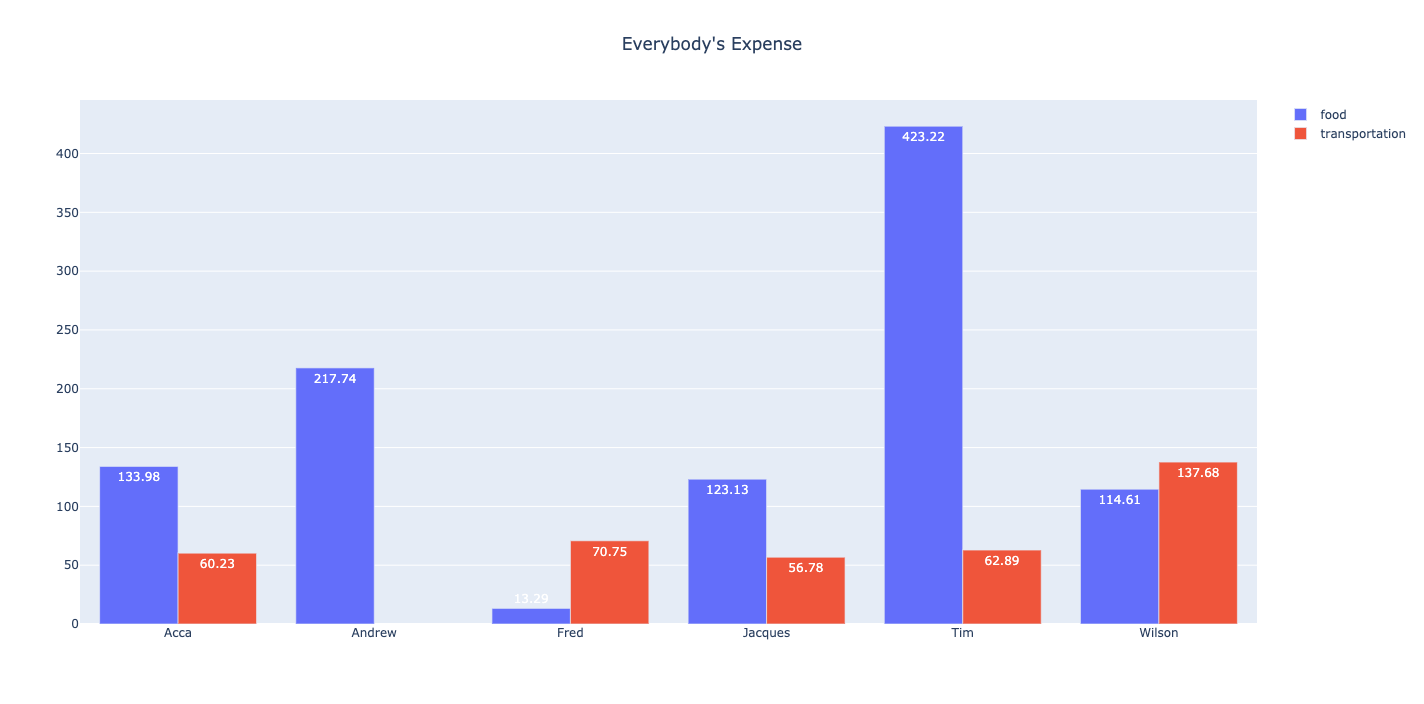
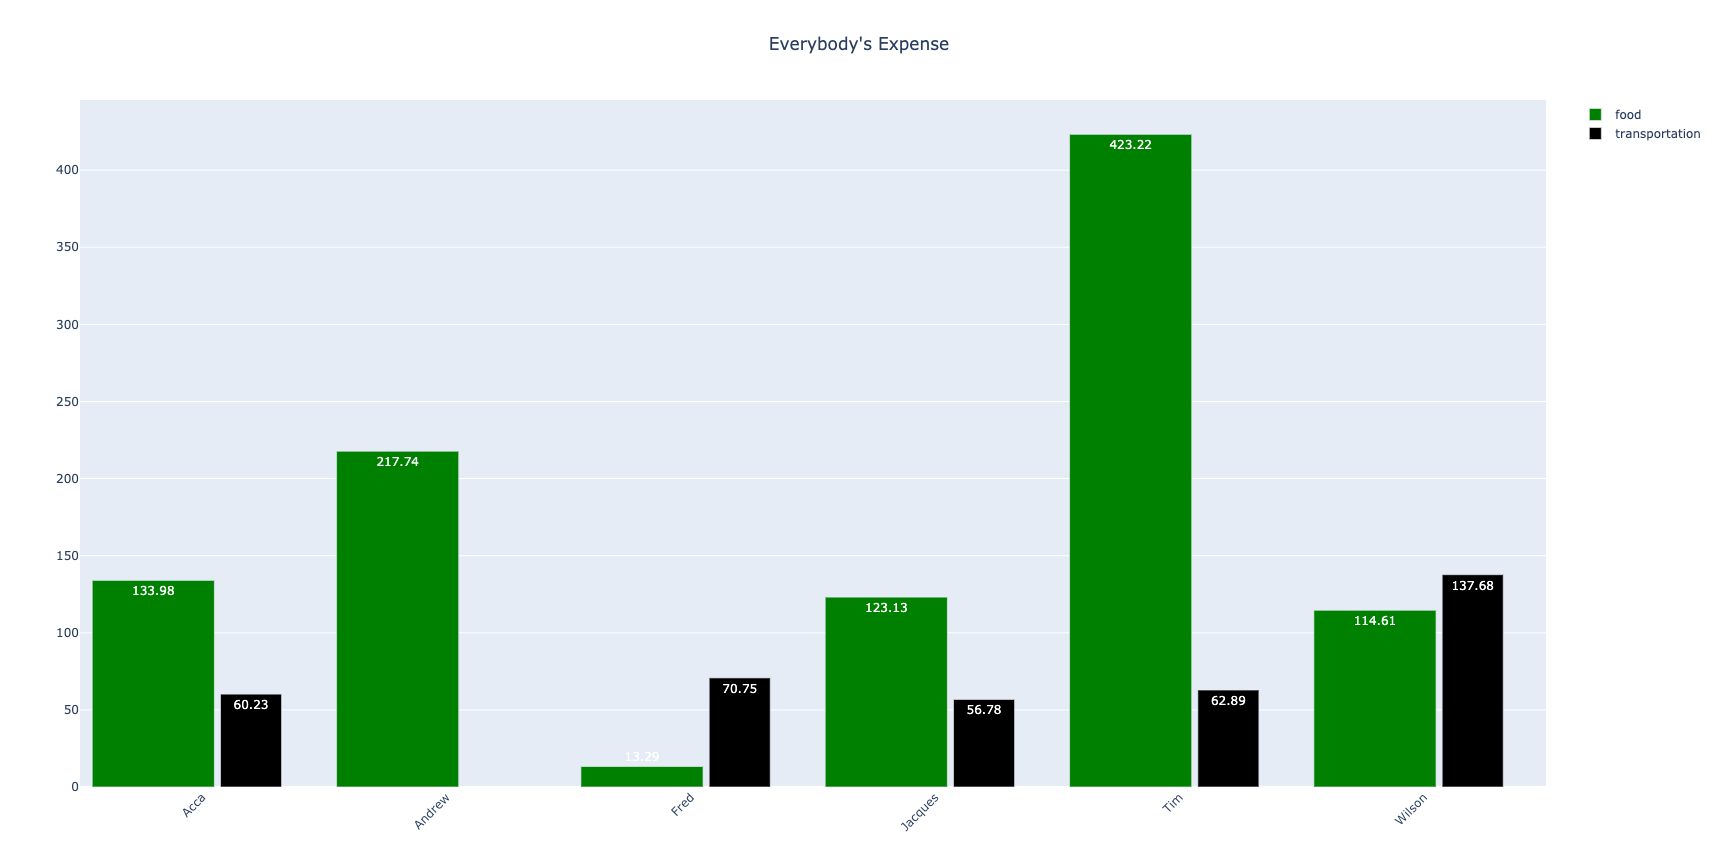
Update Bar chart folder content

Changed region(s): [[0.0309, 0.0312, 0.9888, 0.9375]]

diff --git a/PlotlyExample/BarChart/Groupbar.py b/PlotlyExample/BarChart/Groupbar.py
@@ -7,23 +7,30 @@ from plotly.offline import *
 # To initiate ploty to run offline
 init_notebook_mode(connected=True)
 # Import data
-df = pd.read_csv('../Data/expense.csv')
+df = pd.read_csv('../Data/expense_everybody.csv')
 df = df.groupby(['name','expense_category'])['amount'].sum().reset_index()
 # Round number for amount column
 df['amount'] = df['amount'].round(2)
+# Colours for the category
+colours = ['green','black']
+# Bar Width
+widths = [0.5,0.25]
 
 # Prepare data
 data =[]
-for cate in df['expense_category'].unique():
+for cate, colour, width in zip(df['expense_category'].unique(),colours, widths):
 	df_temp = df[df['expense_category']==cate]
 	data.append(go.Bar(name=cate, 
 	               x=df_temp['name'], y=df_temp['amount'],
+	               marker_color=colour,
+	               width=[width]*len(df_temp['name']),
 	               text=df_temp['amount'], textposition='auto',
-	               textfont=dict(color='white')))
+	               textfont={'color':'white'}))
 
 fig_title = 'Everybody\'s Expense'
 layout = dict(title={'text':fig_title, 'x':0.5},
-              barmode='group', xaxis=dict(tickmode='linear'))
+              barmode='group', 
+              xaxis=dict(tickmode='linear',tickangle=-45))
 
 fig = go.Figure(data=data, layout=layout)
 

diff --git a/PlotlyExample/BarChart/Stackbar.py b/PlotlyExample/BarChart/Stackbar.py
@@ -7,7 +7,7 @@ from plotly.offline import *
 # To initiate ploty to run offline
 init_notebook_mode(connected=True)
 # Import data
-df = pd.read_csv('../Data/expense.csv')
+df = pd.read_csv('../Data/expense_everybody.csv')
 df = df.groupby(['name','expense_category'])['amount'].sum().reset_index()
 # Round number for amount column
 df['amount'] = df['amount'].round(2)
@@ -23,7 +23,8 @@ for cate in df['expense_category'].unique():
 
 fig_title = 'Everybody\'s Expense'
 layout = dict(title={'text':fig_title, 'x':0.5},
-              barmode='stack', xaxis=dict(tickmode='linear'))
+              barmode='stack', 
+              xaxis=dict(tickmode='linear',categoryorder='total descending'))
 
 fig = go.Figure(data=data, layout=layout)
 

diff --git a/PlotlyExample/BarChart/Readme.md b/PlotlyExample/BarChart/Readme.md
@@ -48,6 +48,7 @@ go.Bar() has the following parameters:
 	</li>
 	<li>textfont (Dictionary): Text label setting</li>
 	<li>marker_color: Bar colour (Take colour spelliing in string or RGB in string)</li>
+	<li>width: Width of the bar in pixel</li>
 </ul>
 <br>
 
@@ -64,14 +65,35 @@ Genetic Layout parameters suggested to use:
 	<li>xaxis (Dictionary): X-axis setting
 		<ul>
 			<li>tickmode: Setting of ticks</li>
-			<li></li>
+			<li>tickangle: Degree the tick rotate (-: Anticlockwise, +: Clockwise)</li>
+			<li>categoryorder: Sort the order of attributes on X-axis, either ascending or descending
+				<ul>
+					<li>category ascending: Sort attribute (attribute in name in Data) in ascending orders</li>
+					<li>category descending: Sort attribute (attribute in name in Data) in descending orders</li>
+					<li>total ascending: Sort value in ascending orders</li>
+					<li>total descending: Sort value in descending orders</li>
+					<li>min ascending/min descending: Sort by minimum value</li>
+					<li>max ascending/max descending: Sort by maximum value</li>
+					<li>sum ascending/sum descending: Sort by summation value</li>
+					<li>mean ascending/mean descending: Sort by average value</li>
+					<li>median ascending/median descending: Sort by median value</li>
+					<li>array: Follow the sorting order defined in <b>categoryarray</b></li>
+				</ul>
+			</li>
+			<li>categoryarray: Define the sorting order when <b></b>categoryorder is array</li>
 		</ul></li>
 	<li>yaxis (Dictionary): y-axis setting
 		<ul>
 			<li>tickmode: Setting of ticks</li>
-			<li></li>
+			<li>tickangle: Degree the tick rotate (-: Anticlockwise, +: Clockwise)</li>
 		</ul></li>
 	<li>barmode: How the bars are grouped (See below for detail)</li>
+	<li>uniformtext (Dictionary): Allow bar chart becomes Marimekko Chart by forcing bars to stick together
+		<ul>
+			<li>mode: Put "hide" to becomes Marimekko chart</li>
+			<li>minsize: Minimum size of bars</li>
+		</ul>
+	</li>
 </ul>
 <br><br>
 
@@ -81,6 +103,7 @@ Bar Chart Exclusive parameters:
 		<ul>
 			<li>grouped: Bars stick together if they belong to the same attribute</li>
 			<li>stacked: Bars stack on top of each other if they belong to the same attribute</li>
+			<li>relative: Stacked bars, but negative values stack below 0</li>
 		</ul></li>
 	<li>marker_color: Bar colour</li>
 </ul>
@@ -105,16 +128,19 @@ layout = {'title':{'text':'Everybody\'s Salary', 'x':0.5}}
 
 ```
 data =[]
-for cate in df['expense_category'].unique():
+for cate, colour, width in zip(df['expense_category'].unique(),colours, widths):
 	df_temp = df[df['expense_category']==cate]
 	data.append(go.Bar(name=cate, 
 	               x=df_temp['name'], y=df_temp['amount'],
+	               marker_color=colour,
+	               width=[width]*len(df_temp['name']),
 	               text=df_temp['amount'], textposition='auto',
-	               textfont=dict(color='white')))
+	               textfont={'color':'white'}))
 
 fig_title = 'Everybody\'s Expense'
 layout = dict(title={'text':fig_title, 'x':0.5},
-              barmode='group', xaxis=dict(tickmode='linear'))
+              barmode='group', 
+              xaxis=dict(tickmode='linear',tickangle=-45))
 ```
 
 <br>
@@ -136,7 +162,8 @@ for cate in df['expense_category'].unique():
 
 fig_title = 'Everybody\'s Expense'
 layout = dict(title={'text':fig_title, 'x':0.5},
-              barmode='stack', xaxis=dict(tickmode='linear'))
+              barmode='stack', 
+              xaxis=dict(tickmode='linear',categoryorder='total descending'))
 
 ```
 
